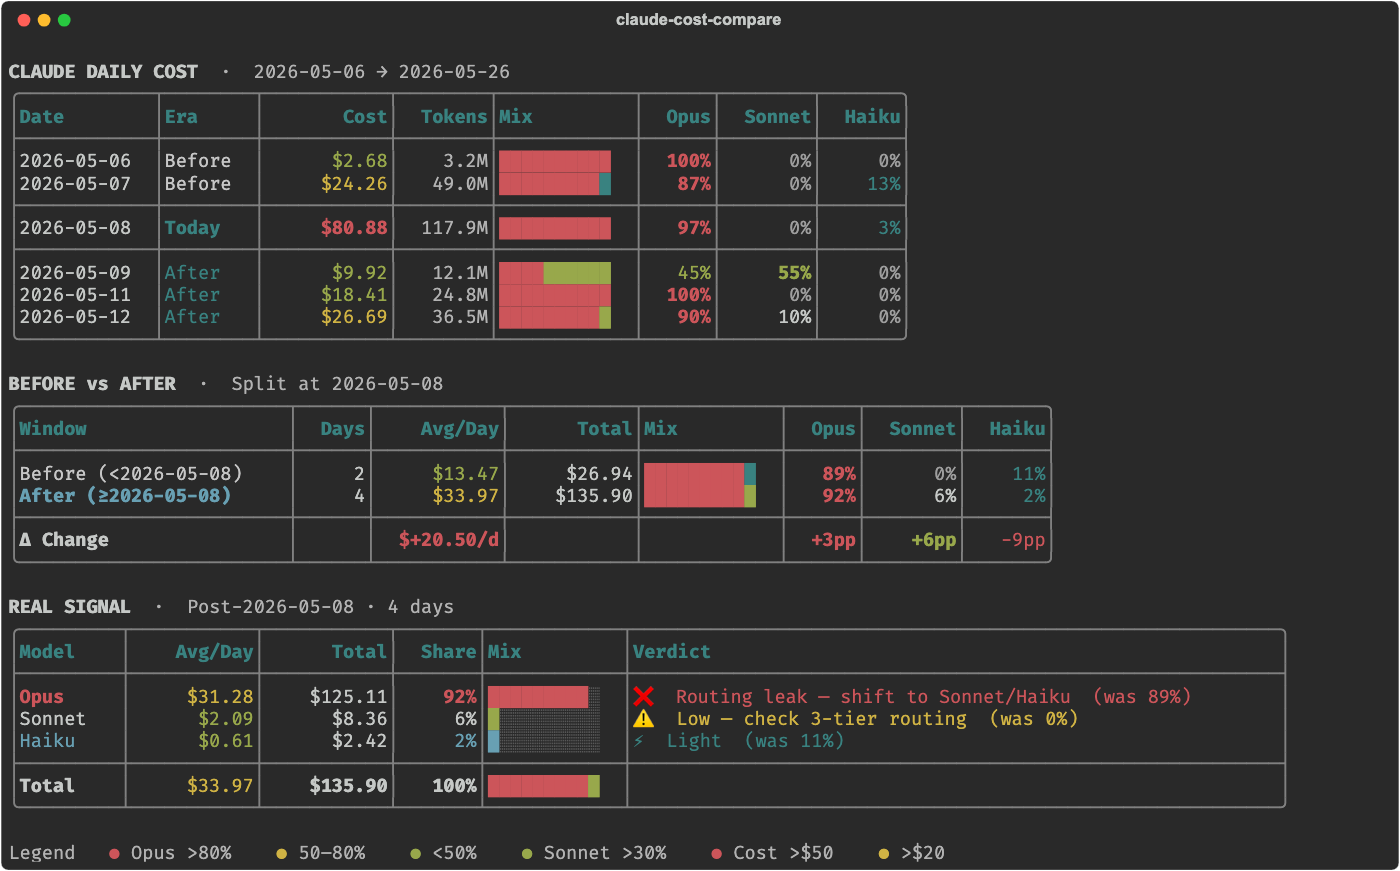
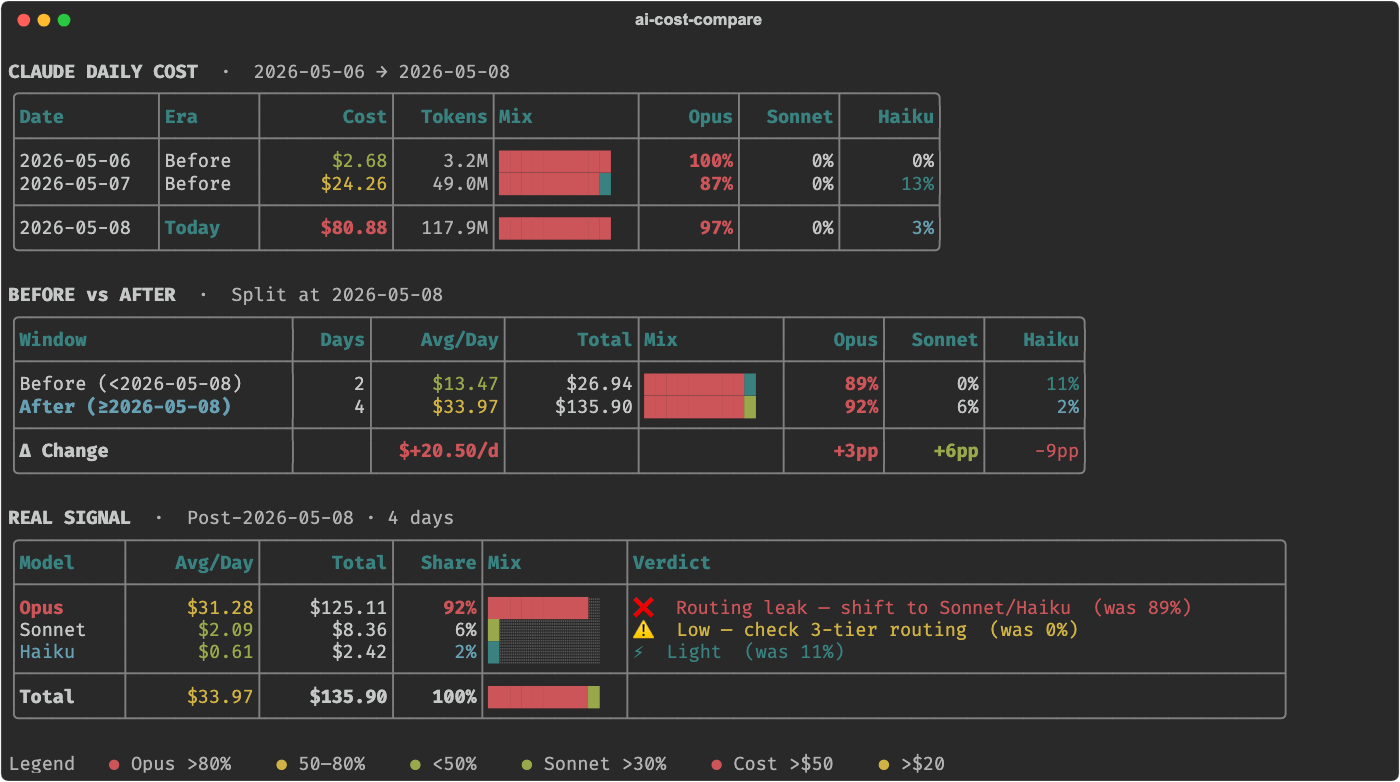
docs: update demo assets, README example, and formula desc
Regenerate demo SVG/PNG for cutoff-scoped daily view. Update README
plain-text example to reflect new header date and single After row.
Broaden formula desc to mention Cursor alongside Claude Code.

diff --git a/README.md b/README.md
@@ -64,13 +64,13 @@ ai-cost-compare --range 7 --cutoff 2026-05-08
 ```
 
 ```
-CLAUDE DAILY COST  ·  2026-05-06 → 2026-05-26
+CLAUDE DAILY COST  ·  2026-05-06 → 2026-05-08
 ┌─────────────┬────────┬───────────┬────────┬───────────┬──────┬────────┬──────┐
 │ Date        │ Era    │      Cost │ Tokens │ Mix       │ Opus │ Sonnet │ Haiku│
 ├─────────────┼────────┼───────────┼────────┼───────────┼──────┼────────┼──────┤
 │ 2026-05-06  │ Before │     $2.68 │   3.2M │ ████████… │ 100% │     0% │   0% │
+│ 2026-05-07  │ Before │    $24.26 │  49.0M │ ████████… │  87% │     0% │  13% │
 │ 2026-05-08  │ Today  │    $80.88 │ 117.9M │ ████████… │  97% │     0% │   3% │
-│ 2026-05-09  │ After  │     $9.92 │  12.1M │ ████████… │  45% │    55% │   0% │
 └─────────────┴────────┴───────────┴────────┴───────────┴──────┴────────┴──────┘
 
 BEFORE vs AFTER  ·  Split at 2026-05-08